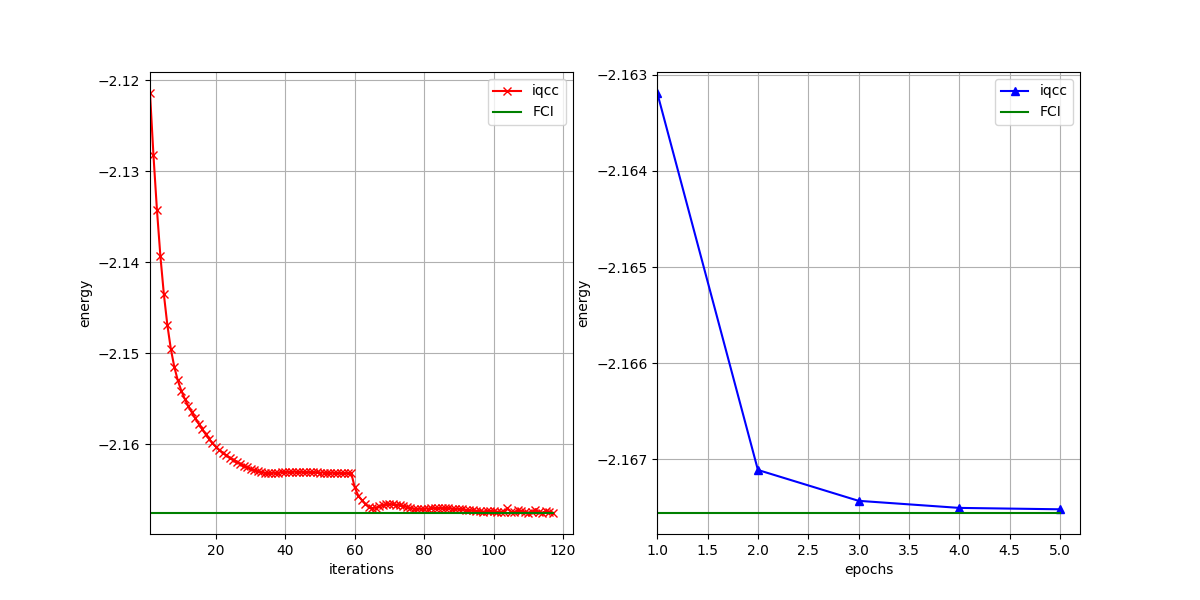
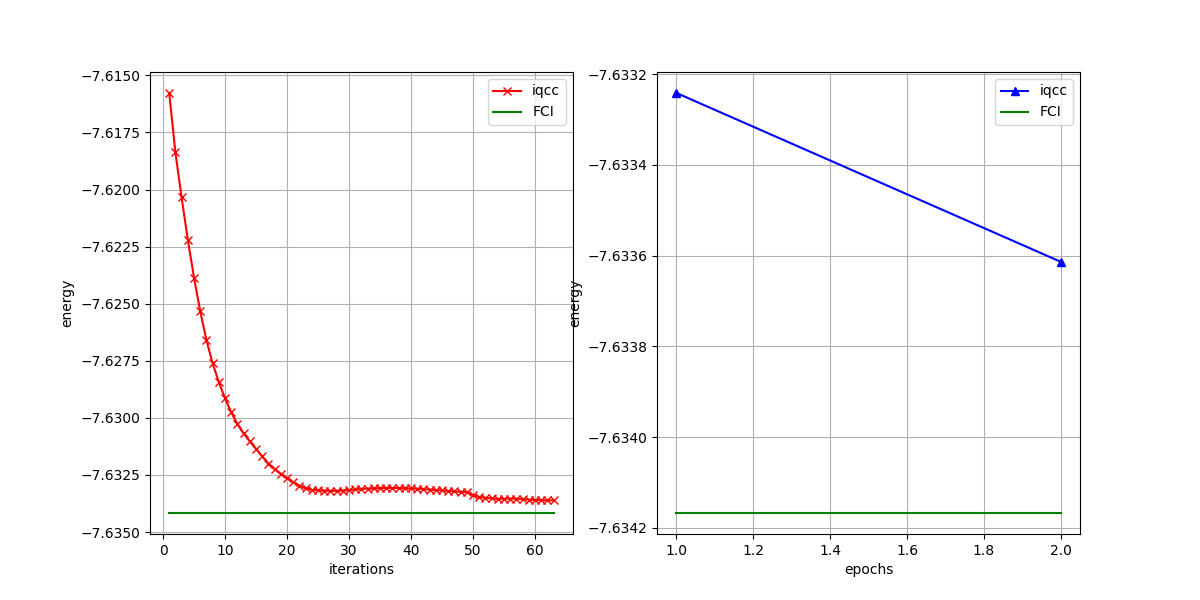
add vqe_qcc_pennylane.py

diff --git a/models/vqe_iqcc_pennylane.py b/models/vqe_iqcc_pennylane.py
@@ -1,0 +1,262 @@
+import pennylane as qml
+from pennylane import numpy as np
+import torch 
+import torch.nn as nn
+import torch.optim as optim
+from openfermion import (
+    MolecularData, jordan_wigner, QubitOperator
+)
+import matplotlib.pyplot as plt
+from functools import reduce, partial
+
+def QubitOperator_to_qmlHamiltonian(op: QubitOperator):
+
+    pauliDict = {
+        'X': qml.PauliX,
+        'Y': qml.PauliY,
+        'Z': qml.PauliZ
+    }
+
+    coeffs = []
+    obs = []
+
+    for pauliString, coeff in op.terms.items():
+
+        if not pauliString:
+            coeffs.append(coeff)
+            obs.append(qml.Identity(wires=[0]))
+            continue
+        
+        coeffs.append(coeff)
+        pauliList = [pauliDict[pauli](index) for index, pauli in pauliString]
+        obs.append(reduce(lambda a, b: a @ b, pauliList))
+
+    return qml.Hamiltonian(coeffs, obs)
+
+def PauliStringRotation(theta, pauliString: tuple[str, list[int]]):
+    
+    # Basis rotation
+    for pauli, qindex in zip(*pauliString):
+        if pauli == 'X':
+            qml.RY(-np.pi / 2, wires=qindex)
+        elif pauli == 'Y':
+            qml.RX(np.pi / 2, wires=qindex)
+    
+    # CNOT layer
+    for q, q_next in zip(pauliString[1][:-1], pauliString[1][1:]):
+        qml.CNOT(wires=[q, q_next])
+    
+    # Z rotation
+    qml.RZ(theta, pauliString[1][-1])
+
+    # CNOT layer
+    for q, q_next in zip(reversed(pauliString[1][:-1]), reversed(pauliString[1][1:])):
+        qml.CNOT(wires=[q, q_next])
+
+    # Basis rotation
+    for pauli, qindex in zip(*pauliString):
+        if pauli == 'X':
+            qml.RY(np.pi / 2, wires=qindex)
+        elif pauli == 'Y':
+            qml.RX(-np.pi / 2, wires=qindex)
+
+class IQCC:
+    def __init__(self,
+                 molecule: MolecularData,
+                 n_epoch: int,
+                 lr: float,
+                 threshold: float
+                 ):
+
+        self.molecule = molecule
+        self.n_epoch = n_epoch
+        self.lr = lr
+        self.threshold = threshold
+        self.Ng = 8
+        self.ratio = 0.1
+        self.n_qubits = molecule.n_qubits
+        self.n_electrons = molecule.n_electrons
+        self.device = torch.device("cuda:0" if torch.cuda.is_available() else "cpu")
+
+        self.fermionHamiltonian = molecule.get_molecular_hamiltonian()
+        self.currentHamiltonian = jordan_wigner(self.fermionHamiltonian)
+        self.qmlHamiltonian = QubitOperator_to_qmlHamiltonian(self.currentHamiltonian)
+
+        self.params = nn.ParameterDict({
+            'theta': nn.Parameter(torch.Tensor([np.pi for _ in range(self.n_electrons)] + [0 for _ in range(self.n_qubits - self.n_electrons)]), requires_grad=True),
+            'phi': nn.Parameter(torch.zeros(self.n_qubits), requires_grad=True),
+            'tau': nn.Parameter(torch.zeros(self.Ng), requires_grad=True)
+        }).to(self.device)
+
+        self.loss_history = {
+            'iteration': [],
+            'epoch': []
+        }
+        self.selectedGates = []
+        
+    def get_circuit(self, tau=None, appendGates=None):
+        
+        if not appendGates:
+            
+            for i in range(self.n_qubits):
+                qml.RY(self.params['theta'][i], wires=i)
+                qml.RZ(self.params['phi'][i], wires=i)
+            
+            for i, gate in enumerate(self.selectedGates):
+                gate(self.params['tau'][i])
+
+            return qml.expval(self.qmlHamiltonian)
+        
+        else:
+            for i in range(self.n_qubits):
+                qml.RY(self.params['theta'][i].detach(), wires=i)
+                qml.RZ(self.params['phi'][i].detach(), wires=i)
+            
+            for i, gate in enumerate(appendGates):
+                gate(tau[i])
+
+            return qml.expval(self.qmlHamiltonian)
+
+    def partition_hamiltonian(self):
+        
+        partitioned_hamiltonian = {}
+
+        for pauliString, coeff in self.currentHamiltonian.terms.items():
+
+            flip_indicies = []
+
+            for index, pauli in pauliString:
+                if pauli == 'X' or pauli == 'Y':
+                    flip_indicies.append(index)
+            
+            flip_indicies = tuple(flip_indicies)
+
+            if partitioned_hamiltonian.get(flip_indicies) is None:
+                partitioned_hamiltonian[flip_indicies] = coeff * QubitOperator(pauliString)
+            else:
+                partitioned_hamiltonian[flip_indicies] += coeff * QubitOperator(pauliString)
+        
+        return partitioned_hamiltonian
+    
+    def select_operator(self):
+
+        partitioned_hamiltonian = self.partition_hamiltonian()
+        DIS_gates = []
+        DIS_strings = []
+
+        for flip_indicies in partitioned_hamiltonian.keys():
+
+            if len(flip_indicies) == 0:
+                continue
+
+            Pk = ('Y' + 'X' * (len(flip_indicies)-1), flip_indicies)
+            gate = partial(PauliStringRotation, pauliString=Pk)
+            DIS_gates.append(gate)
+
+            Pk_string = ''
+            for pauli, index in zip(*Pk):
+                Pk_string += pauli + str(index) + ' '
+            DIS_strings.append(Pk_string[:-1])
+
+        dev = qml.device('default.qubit.torch', wires=self.n_qubits)
+        tau = nn.Parameter(torch.zeros(len(DIS_gates)), requires_grad=True)
+        circuit = self.get_circuit
+        model = qml.QNode(circuit, dev, interface='torch', diff_method='backprop')
+        loss = model(tau, DIS_gates)
+        loss.backward()
+        grads = tau.grad.detach().cpu().numpy()
+        grads = np.abs(grads)
+
+        max_grad = np.max(grads)
+        if max_grad * self.ratio > self.threshold:
+            self.Ng = np.sum(grads > max_grad * self.ratio)
+        else:
+            self.Ng = np.sum(grads > self.threshold)
+        
+        maxIndicies = np.argsort(grads)[::-1][:self.Ng]
+        maxGrads = grads[maxIndicies]
+        maxGates = [DIS_gates[index] for index in maxIndicies]
+        maxOperators = [DIS_strings[index] for index in maxIndicies]
+
+        return maxGates, maxOperators, maxGrads
+
+    def run(self):
+
+        fig = plt.figure(figsize=(12, 6))
+        ax1 = fig.add_subplot(1, 2, 1)
+        ax2 = fig.add_subplot(1, 2, 2)
+
+        dev = qml.device('default.qubit.torch', wires=self.n_qubits)
+
+        for i_epoch in range(self.n_epoch):
+
+            maxGates, maxOperators, maxGrads = self.select_operator()
+
+            print(f'=== Found operators: {maxOperators} \n with gradients: {maxGrads} ====')
+
+            if len(maxGrads) == 0:
+                break
+
+            self.selectedGates = maxGates
+            self.params['tau'] = nn.Parameter(torch.zeros(self.Ng), requires_grad=True).to(self.device)
+
+            circuit = self.get_circuit
+            model = qml.QNode(circuit, dev, interface='torch', diff_method='backprop')
+            opt = optim.Adam(self.params.values(), lr=self.lr)
+
+            while True:
+                opt.zero_grad()
+                loss = model()
+                loss.backward()
+                opt.step()
+                self.loss_history['iteration'].append(loss.item())
+                grad_vec = torch.cat((self.params['theta'].grad, self.params['phi'].grad, self.params['tau'].grad))
+                grad_norm = torch.linalg.vector_norm(grad_vec)
+                if grad_norm < self.threshold:
+                    break
+                print(loss.item(), grad_norm)
+            
+            self.loss_history['epoch'].append(loss.item())
+            self.selectedGates = []
+
+            maxOperators = [QubitOperator(op) for op in maxOperators]
+            for P_k, tau_k in zip(maxOperators[::-1], self.params['tau'].detach().cpu().numpy()[::-1]):
+                first_term = np.sin(tau_k) * (-1j / 2) * (self.currentHamiltonian * P_k - P_k * self.currentHamiltonian)
+                second_term = 1 / 2 * (1 - np.cos(tau_k)) * (P_k * self.currentHamiltonian * P_k - self.currentHamiltonian)
+                self.currentHamiltonian += first_term + second_term
+            self.qmlHamiltonian = QubitOperator_to_qmlHamiltonian(self.currentHamiltonian)
+            
+            print(f'epoch: {i_epoch+1}, total energy: {loss.item()}')
+
+            length = len(self.loss_history['iteration'])
+            ax1.clear()
+            ax1.plot(np.arange(length)+1, self.loss_history['iteration'], marker='x', color='r', label='iqcc')
+            ax1.plot(np.arange(length)+1, np.full(length, self.molecule.fci_energy), linestyle='-', color='g', label='FCI')
+            ax1.set_xlabel('iterations')
+            ax1.set_ylabel('energy')
+            ax1.legend()
+            ax1.grid()
+            plt.pause(0.01)
+
+            length = len(self.loss_history['epoch'])
+            ax2.clear()
+            ax2.plot(np.arange(length)+1, self.loss_history['epoch'], marker='^', color='b', label='iqcc')
+            ax2.plot(np.arange(length)+1, np.full(length, self.molecule.fci_energy), linestyle='-', color='g', label='FCI')
+            ax2.set_xlabel('epochs')
+            ax2.set_ylabel('energy')
+            ax2.legend()
+            ax2.grid()
+
+            plt.savefig('output.png')
+            plt.pause(0.01)
+
+
+if __name__ == '__main__':
+    from molecules import *
+    molecule = LiH(r=0.8)
+    vqe = IQCC(
+        molecule, n_epoch=5, lr=1e-2, threshold=1e-2
+    )
+    vqe.run()
+    
+    

diff --git a/models/vqe_iqcc.py b/models/vqe_iqcc.py
@@ -1,9 +1,8 @@
-from qiskit import QuantumCircuit, QuantumRegister
+from qiskit import QuantumCircuit
 import torch
 import torch.nn as nn
 import torch.optim as optim
 import numpy as np
-import openfermion as of
 from openfermion import (
     MolecularData, FermionOperator, jordan_wigner
 )
@@ -12,13 +11,12 @@ from .utils import (
     processPauliString,
     exponentialPauliString
 )
-from qiskit.primitives import Estimator
+from qiskit_aer.primitives import Estimator
 from qiskit.circuit import Parameter
 from qiskit.quantum_info import SparsePauliOp
 from qiskit_machine_learning.connectors import TorchConnector
 from qiskit_machine_learning.neural_networks import EstimatorQNN
 import matplotlib.pyplot as plt
-import time
 
 class IQCC:
     def __init__(self,
@@ -212,4 +210,3 @@ if __name__ == '__main__':
     molecule = H4(r=0.8)
     vqe = IQCC(molecule, maxIter=100, lr=1e-2, threshold=1e-2)
     vqe.run()
-
